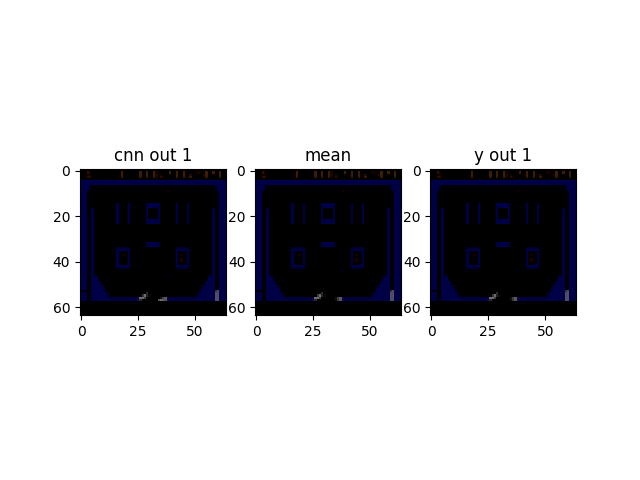
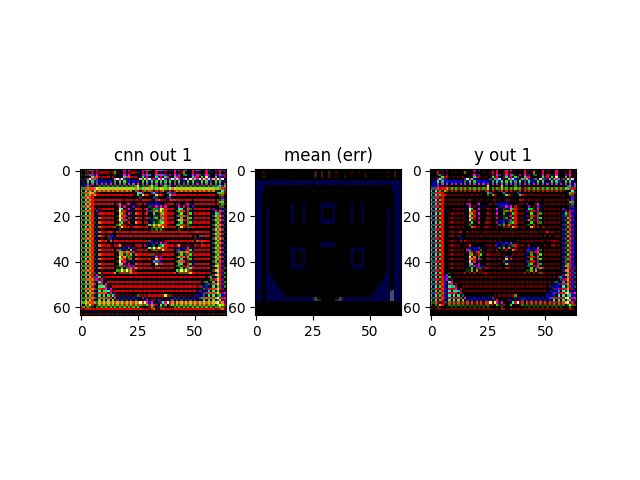
making it ready for testing

diff --git a/pydreamer/models/NewCNN.py b/pydreamer/models/NewCNN.py
@@ -15,7 +15,7 @@ from .common import *
 
 class NewCNN(nn.Module):
 
-    def __init__(self, in_channels=3, cnn_depth=32, activation=nn.ReLU):
+    def __init__(self, in_channels=3, cnn_depth=32, activation=nn.ELU):
         super().__init__()
         self.out_dim = cnn_depth * 32
         kernels = (3, 3, 4, 4)
@@ -37,6 +37,7 @@ class NewCNN(nn.Module):
         self.model_3d = nn.Sequential(
             nn.Conv3d(self.hist_size, d, kernels[0], stride, bias=False),
             # nn.BatchNorm3d(d),
+            nn.InstanceNorm3d(d),
             activation(),
             nn.ConvTranspose3d(d, 1, kernels[1], stride=2, bias=False),
             nn.ReflectionPad3d((1, 0, 1, 0, 0, 0)),
@@ -62,16 +63,16 @@ class NewCNN(nn.Module):
             self.hist[0] = self.last_input
 
         # combined_history = torch.cat(self.hist, -3)
-        # combined_history = torch.stack(self.hist, 2)
-        # combined_history, bd = flatten_batch(combined_history, 4)
-        # mean = combined_history.mean(dim=[0, 1])
-        mean = self.hist[0]
-        cnn_out = x
-        # cnn_out = self.model_3d(combined_history)
-        # cnn_out = unflatten_batch(cnn_out, bd)
-        # cnn_out = torch.squeeze(cnn_out)
-        # y = mean + cnn_out
-        y = mean
+        combined_history = torch.stack(self.hist, 2)
+        combined_history, bd = flatten_batch(combined_history, 4)
+        mean = combined_history.mean(dim=[0, 1])
+        # mean = self.hist[0]
+        # cnn_out = x
+        cnn_out = self.model_3d(combined_history)
+        cnn_out = unflatten_batch(cnn_out, bd)
+        cnn_out = torch.squeeze(cnn_out)
+        y = mean + cnn_out
+        # y = mean
         # combined_history = torch.stack(self.hist, 2)
         # combined_history, bd = flatten_batch(combined_history, 4)
         # y = self.model(combined_history)
@@ -94,9 +95,13 @@ class NewCNN(nn.Module):
             try: 
                 ax2.imshow(np.clip(mean.cpu().detach().numpy().astype('float64')[0][0].transpose((1,2,0)), 0, 1), interpolation='nearest')
                 ax2.set_title("mean")
-            except Exception as e:
-                print("found error while creating pictures mean:")
-                print(e)
+            except:
+                try:
+                    ax2.imshow(np.clip(mean.cpu().detach().numpy().astype('float64').transpose((1,2,0)), 0, 1), interpolation='nearest')
+                    ax2.set_title("mean (err)")
+                except Exception as e:
+                    print("found error while creating pictures mean:")
+                    print(e)
             try: 
                 ax3.imshow(np.clip(y.cpu().detach().numpy().astype('float64')[0][0].transpose((1,2,0)), 0, 1), interpolation='nearest')
                 ax3.set_title("y out 1")
